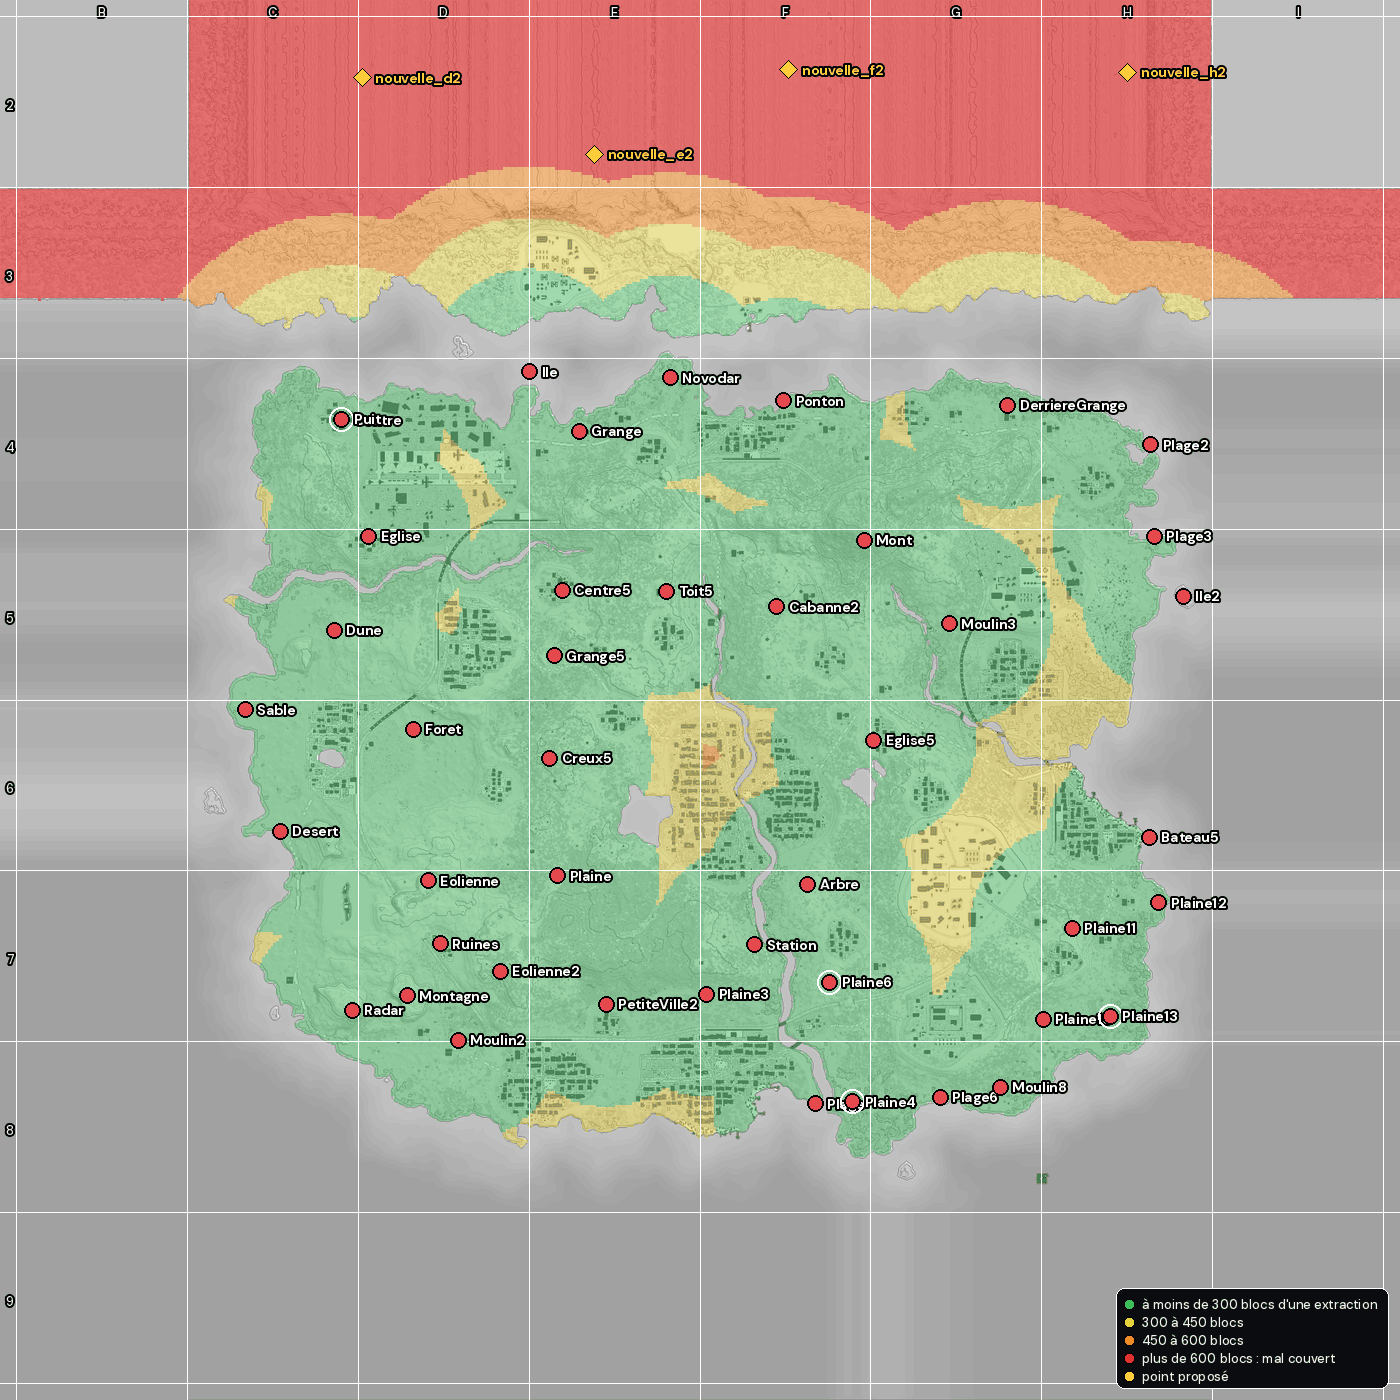
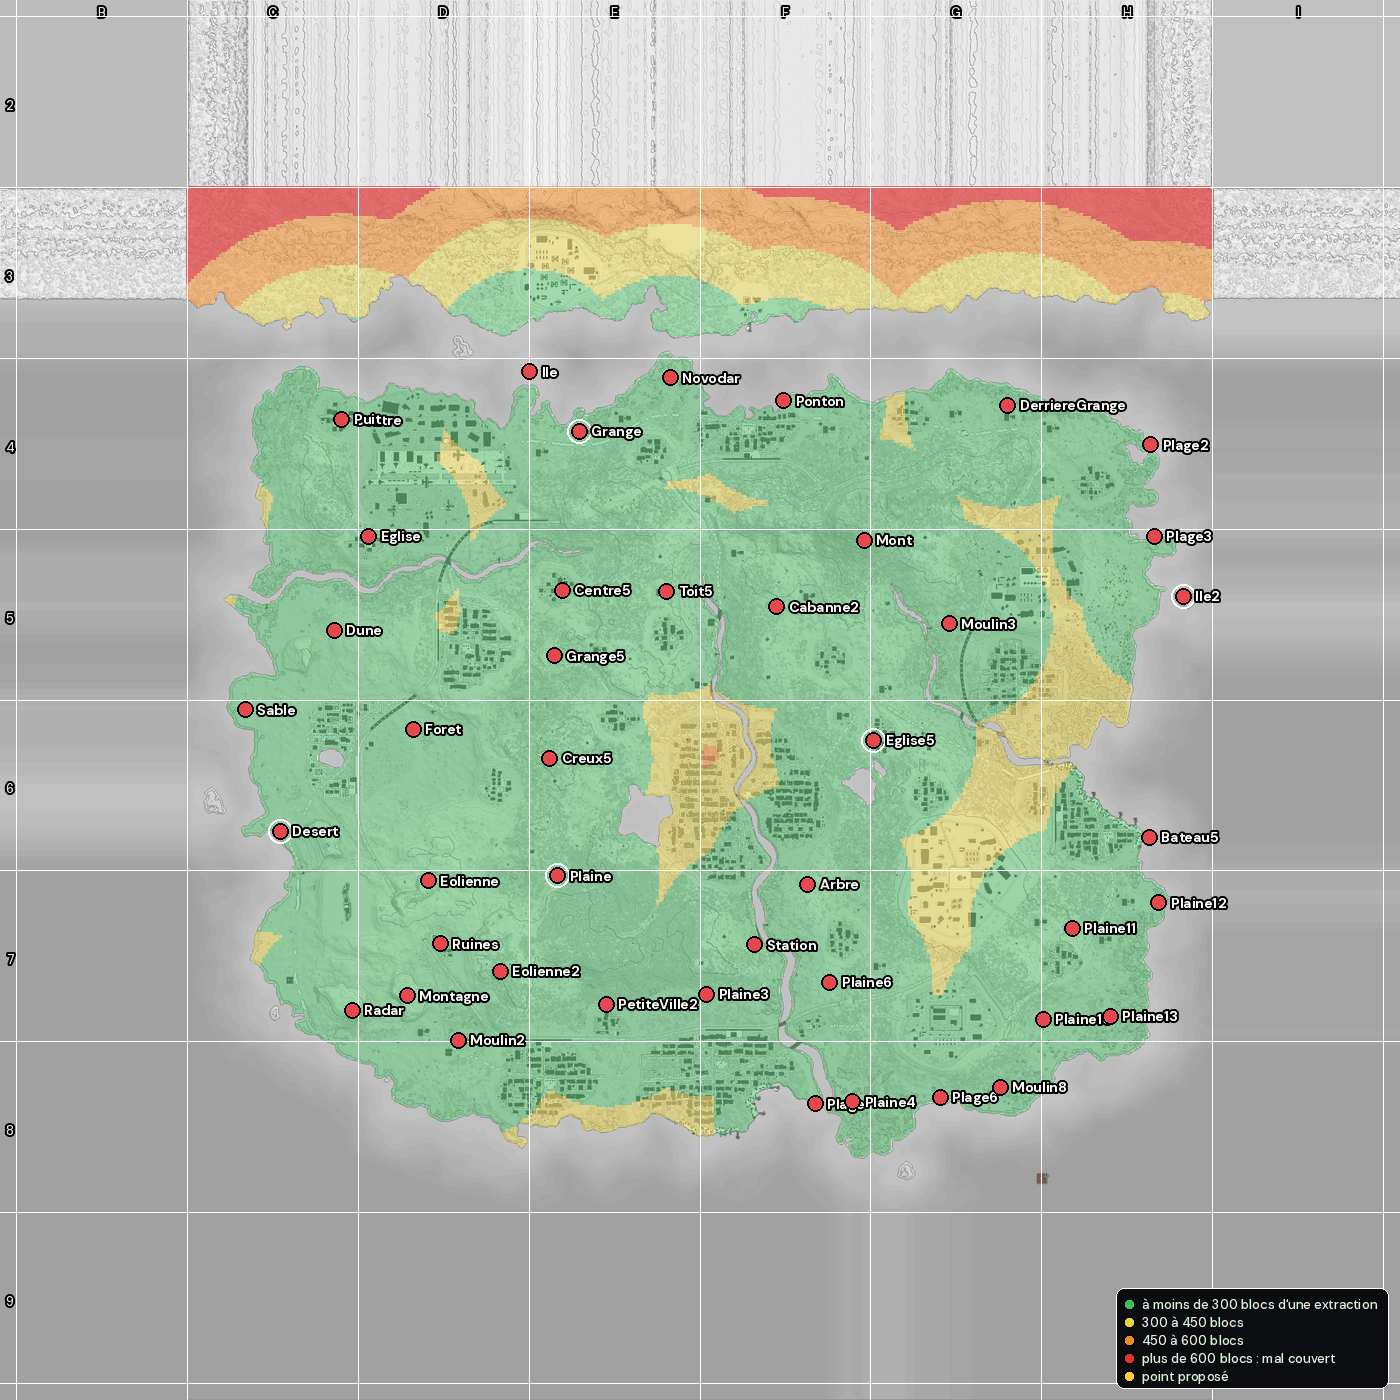
Extractions de la carte : liste, carte et points proposés (lecture seule du monde en service)

Changed region(s): [[0.0, 0.0, 1.0, 0.215], [0.4914, 0.5529, 0.5221, 0.5836]]

diff --git a/monde/extractions/rapport.md b/monde/extractions/rapport.md
@@ -4,7 +4,7 @@ Fait le 16/10/2026 depuis le monde en service (lecture seule ; rien n'a été é
 
 - **45 zone(s)** posées : 45 en rotation, 0 permanente(s), 0 fermée(s) hors ouverture à la main.
 - Réglages de la rotation : 3 à 6 zone(s) ouvertes à la fois, 30 à 60 min, par vagues, distance minimale 800 blocs, une par quart de la carte (absents du fichier du serveur, valeurs du mod 1.5.0 : waves, minDistance, spread).
-- Zones ouvertes à la dernière sauvegarde du monde : Plaine1, Plaine4, Plaine6, Puit.
+- Zones ouvertes à la dernière sauvegarde du monde : Desert, Ile2, Plaine, eglise5, grange.
 
 ![Carte des extractions](carte_extractions.png)
 
@@ -15,14 +15,14 @@ Fait le 16/10/2026 depuis le monde en service (lecture seule ; rien n'a été é
 | 1 | `Arbre` | Arbre | rotation | 315 | 78 | 539 | 8 | 30 s | F7 | Station (236 m) | non |
 | 2 | `Centre` | Centre | rotation | -1048 | 64 | -821 | 8 | 30 s | C4 | Puit (0 m) | non |
 | 3 | `DerriereGrange` | DerriereGrange | rotation | 900 | 64 | -863 | 8 | 30 s | G4 | Plage2 (434 m) | non |
-| 4 | `Desert` | Desert | rotation | -1228 | 64 | 384 | 8 | 30 s | C6 | Sable (371 m) | non |
+| 4 | `Desert` | Desert | rotation | -1228 | 64 | 384 | 8 | 30 s | C6 | Sable (371 m) | oui |
 | 5 | `Dune` | Dune | rotation | -1071 | 74 | -205 | 8 | 30 s | C5 | Eglise (293 m) | non |
 | 6 | `Eglise` | Eglise | rotation | -969 | 81 | -480 | 5 | 30 s | D5 | Dune (293 m) | non |
 | 7 | `Eolienne` | Eolienne | rotation | -795 | 101 | 529 | 8 | 30 s | D7 | Ruines (188 m) | non |
 | 8 | `Eolienne2` | Eolienne2 | rotation | -584 | 97 | 794 | 5 | 30 s | D7 | Ruines (193 m) | non |
 | 9 | `Foret` | Foret | rotation | -839 | 69 | 85 | 8 | 30 s | D6 | Dune (372 m) | non |
 | 10 | `Ile` | Ile | rotation | -499 | 64 | -961 | 8 | 30 s | E4 | grange (226 m) | non |
-| 11 | `Ile2` | Ile2 | rotation | 1414 | 64 | -304 | 8 | 30 s | H5 | Plage3 (196 m) | non |
+| 11 | `Ile2` | Ile2 | rotation | 1414 | 64 | -304 | 8 | 30 s | H5 | Plage3 (196 m) | oui |
 | 12 | `Mont` | Mont | rotation | 479 | 172 | -469 | 8 | 30 s | F5 | cabanne2 (322 m) | non |
 | 13 | `Montagne` | Montagne | rotation | -857 | 96 | 865 | 8 | 30 s | D7 | Radar (166 m) | non |
 | 14 | `Moulin2` | Moulin2 | rotation | -707 | 65 | 995 | 5 | 30 s | D7 | Montagne (198 m) | non |
@@ -34,17 +34,17 @@ Fait le 16/10/2026 depuis le monde en service (lecture seule ; rien n'a été é
 | 20 | `Plage2` | Plage2 | rotation | 1318 | 64 | -747 | 8 | 30 s | H4 | Plage3 (267 m) | non |
 | 21 | `Plage3` | Plage3 | rotation | 1329 | 64 | -480 | 8 | 30 s | H5 | Ile2 (196 m) | non |
 | 22 | `Plage6` | Plage6 | rotation | 702 | 64 | 1161 | 7 | 30 s | G8 | Moulin8 (178 m) | non |
-| 23 | `Plaine` | Plaine | rotation | -417 | 81 | 513 | 8 | 30 s | E7 | Eolienne2 (327 m) | non |
-| 24 | `Plaine1` | Plaine1 | rotation | 1200 | 66 | 925 | 8 | 30 s | H7 | Plaine13 (0 m) | oui |
+| 23 | `Plaine` | Plaine | rotation | -417 | 81 | 513 | 8 | 30 s | E7 | Eolienne2 (327 m) | oui |
+| 24 | `Plaine1` | Plaine1 | rotation | 1200 | 66 | 925 | 8 | 30 s | H7 | Plaine13 (0 m) | non |
 | 25 | `Plaine10` | Plaine10 | rotation | 1003 | 64 | 934 | 7 | 30 s | H7 | Plaine1 (196 m) | non |
 | 26 | `Plaine11` | Plaine11 | rotation | 1089 | 88 | 668 | 7 | 30 s | H7 | Plaine12 (264 m) | non |
 | 27 | `Plaine12` | Plaine12 | rotation | 1342 | 64 | 593 | 7 | 30 s | H7 | bateau5 (194 m) | non |
 | 28 | `Plaine13` | Plaine13 | rotation | 1200 | 66 | 925 | 8 | 30 s | H7 | Plaine1 (0 m) | non |
 | 29 | `Plaine3` | Plaine3 | rotation | 20 | 67 | 860 | 8 | 30 s | F7 | Station (201 m) | non |
-| 30 | `Plaine4` | Plaine4 | rotation | 447 | 64 | 1175 | 8 | 30 s | F8 | Plage (111 m) | oui |
-| 31 | `Plaine6` | Plaine6 | rotation | 380 | 79 | 825 | 8 | 30 s | F7 | Station (246 m) | oui |
+| 30 | `Plaine4` | Plaine4 | rotation | 447 | 64 | 1175 | 8 | 30 s | F8 | Plage (111 m) | non |
+| 31 | `Plaine6` | Plaine6 | rotation | 380 | 79 | 825 | 8 | 30 s | F7 | Station (246 m) | non |
 | 32 | `Ponton` | Ponton | rotation | 244 | 63 | -876 | 4 | 30 s | F4 | Novodar (339 m) | non |
-| 33 | `Puit` | Puit | rotation | -1048 | 66 | -821 | 8 | 30 s | C4 | Centre (0 m) | oui |
+| 33 | `Puit` | Puit | rotation | -1048 | 66 | -821 | 8 | 30 s | C4 | Centre (0 m) | non |
 | 34 | `Radar` | Radar | rotation | -1018 | 99 | 907 | 5 | 30 s | C7 | Montagne (166 m) | non |
 | 35 | `Ruines` | Ruines | rotation | -760 | 72 | 713 | 5 | 30 s | D7 | Montagne (181 m) | non |
 | 36 | `Sable` | Sable | rotation | -1331 | 64 | 28 | 8 | 30 s | C6 | Dune (349 m) | non |
@@ -53,16 +53,18 @@ Fait le 16/10/2026 depuis le monde en service (lecture seule ; rien n'a été é
 | 39 | `cabanne2` | Cabanne2 | rotation | 224 | 88 | -273 | 3 | 30 s | F5 | Mont (322 m) | non |
 | 40 | `centre5` | Centre5 | rotation | -404 | 76 | -321 | 6 | 30 s | E5 | grange5 (193 m) | non |
 | 41 | `creux5` | Creux5 | rotation | -440 | 80 | 170 | 5 | 30 s | E6 | grange5 (300 m) | non |
-| 42 | `eglise5` | Eglise5 | rotation | 507 | 85 | 117 | 5 | 30 s | G6 | Moulin3 (407 m) | non |
-| 43 | `grange` | Grange | rotation | -354 | 70 | -787 | 4 | 30 s | E4 | Ile (226 m) | non |
+| 42 | `eglise5` | Eglise5 | rotation | 507 | 85 | 117 | 5 | 30 s | G6 | Moulin3 (407 m) | oui |
+| 43 | `grange` | Grange | rotation | -354 | 70 | -787 | 4 | 30 s | E4 | Ile (226 m) | oui |
 | 44 | `grange5` | Grange5 | rotation | -428 | 88 | -130 | 4 | 30 s | E5 | centre5 (193 m) | non |
 | 45 | `toit5` | Toit5 | rotation | -98 | 103 | -318 | 8 | 30 s | E5 | centre5 (306 m) | non |
 
 ## Répartition
 
 - Distance à la voisine la plus proche : 0 m au plus près, 201 m en médiane, 434 m au plus loin.
+- **Zones au même endroit** (une seule suffit, retirer l'autre avec `/extraction remove <nom>`) : `Centre` et `Puit`, `Plaine1` et `Plaine13`.
+- Bordure du monde : x -1500 à 1500, z -1500 à 1500 ; toutes les zones sont dedans.
 - Quarts de la carte (autour du centre des zones en rotation, x 20, z 384, comme le serveur) : nord-ouest 13, nord-est 9, sud-ouest 9, sud-est 14.
-- Couverture : **26 %** de la terre de la carte est à plus de 600 blocs de toute extraction (rotation et permanentes) ; 26 % en ne comptant que la rotation. Avec les points proposés : 4 %. Voir la [carte de couverture](couverture.png).
+- Couverture : **3 %** de la terre de la carte est à plus de 600 blocs de toute extraction (rotation et permanentes) ; 3 % en ne comptant que la rotation. Avec les points proposés : 3 %. Voir la [carte de couverture](couverture.png).
 
 ![Couverture](couverture.png)
 
@@ -74,19 +76,11 @@ Fait le 16/10/2026 depuis le monde en service (lecture seule ; rien n'a été é
 - une zone par quart tenue : 100 % ; aucune zone de la vague précédente reprise : 100 % ; vagues complètes : 100 % ;
 - meilleure distance possible entre 6 zones ouvertes ensemble : **1181 blocs** (Ile2, Centre, Ponton, Plaine1, Desert, Plaine3).
 - ouvertures par zone (sur 2000 vagues, 201 en moyenne) : la plus tirée `Plage3` 235 fois, la moins tirée `Plaine6` 181 fois ;
-- avec les points proposés en plus : distance tenue 100 % des vagues (médiane 800 blocs), une par quart 100 %.
 
 ## Points proposés pour combler les trous
 
 Choisis un par un là où la carte est le plus loin de toute extraction (au moins 600 blocs), à 200 blocs au moins du bord ; méthode : hauteurs lues dans la copie du monde (sol à sec, à ciel ouvert, pente faible sur 24 blocs). **Tous à vérifier en jeu** avant de les créer (accès, pas dans une zone dangereuse ni un bâtiment, endroit intéressant). Un point qui ne va pas : en choisir un autre près de lui et taper `/extraction create <nom>` debout à cet endroit.
 
-| Nom | X | Y | Z | Carré | Loin de tout (m) | Zone la plus proche | Aller voir | Créer |
-|---|---:|---:|---:|---|---:|---|---|---|
-| `nouvelle_h2` | 1252 | 201 | -1836 | H2 | 1035 | DerriereGrange (1035 m) | `/execute in minecraft:overworld run tp @s 1252 202 -1836` | `/execute in minecraft:overworld positioned 1252 201 -1836 run extraction create nouvelle_h2` |
-| `nouvelle_d2` | -988 | 181 | -1820 | D2 | 988 | Ile (989 m) | `/execute in minecraft:overworld run tp @s -988 182 -1820` | `/execute in minecraft:overworld positioned -988 181 -1820 run extraction create nouvelle_d2` |
-| `nouvelle_f2` | 260 | 173 | -1844 | F2 | 966 | Novodar (966 m) | `/execute in minecraft:overworld run tp @s 260 174 -1844` | `/execute in minecraft:overworld positioned 260 173 -1844 run extraction create nouvelle_f2` |
-| `nouvelle_e2` | -308 | 191 | -1596 | E2 | 619 | Ile (663 m) | `/execute in minecraft:overworld run tp @s -308 192 -1596` | `/execute in minecraft:overworld positioned -308 191 -1596 run extraction create nouvelle_e2` |
-
-Ensuite : `/extraction label <nom> <nom affiché>` pour lui donner un nom de lieu (« Ferme du col »).
+Aucun : partout sur la carte, une extraction est à moins de 600 blocs.
 
 Rien n'a été testé en jeu.
